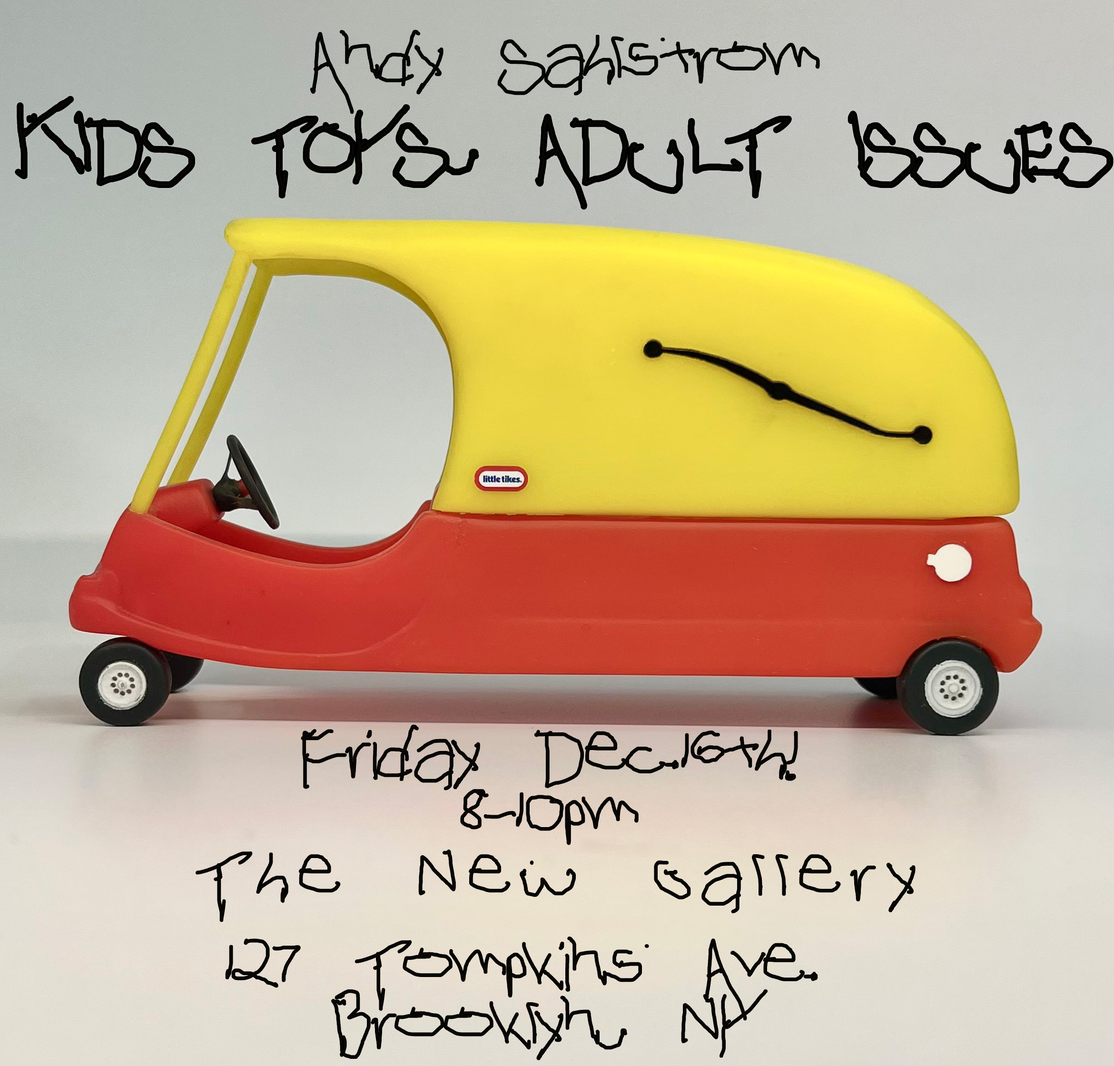
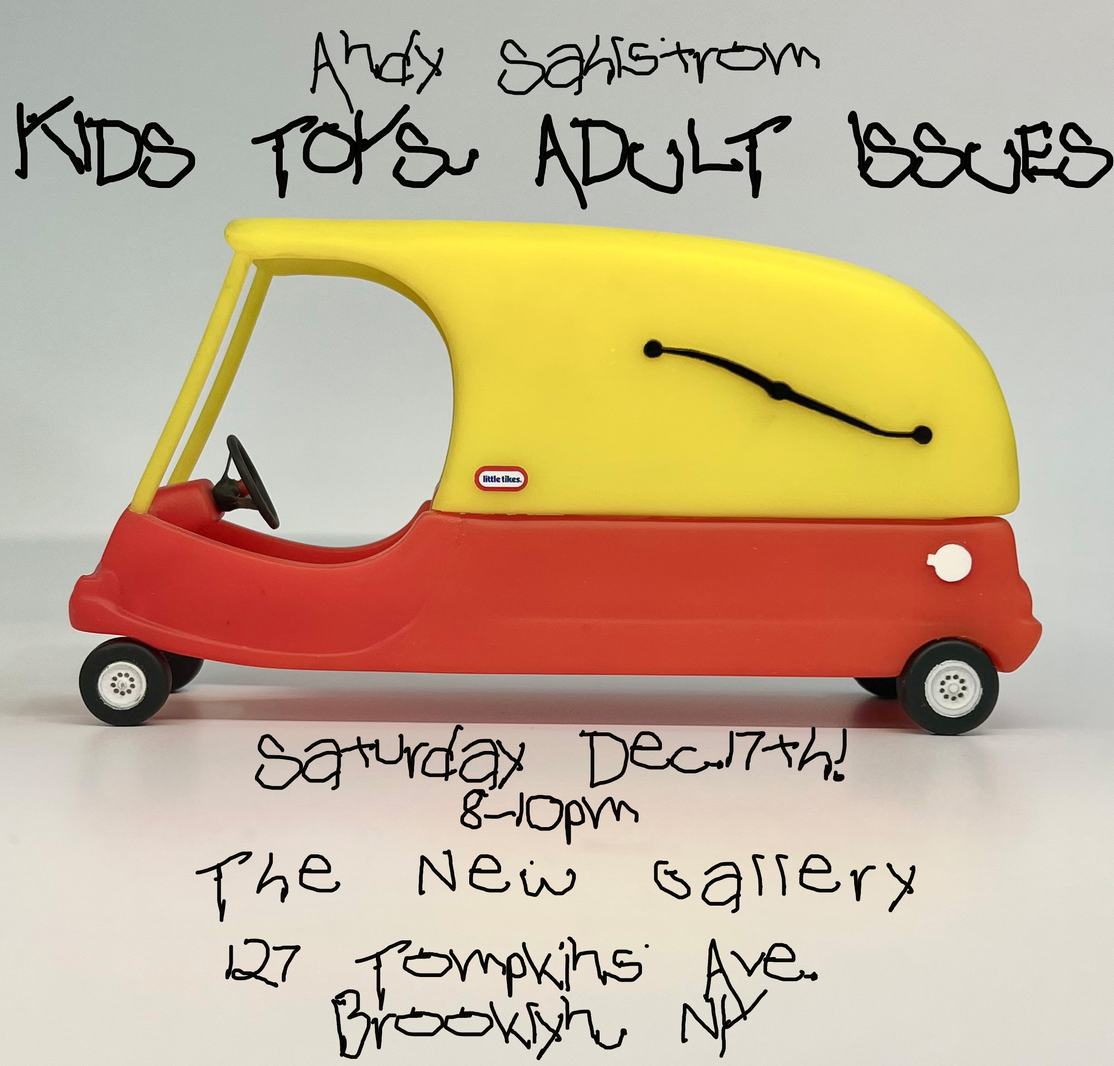
✨ added one more toy, changed date, and added gsap

Changed region(s): [[0.2183, 0.6875, 0.7796, 0.75]]

diff --git a/styles/home.module.css b/styles/home.module.css
@@ -15,35 +15,10 @@
 }
 
 .ad_container {
-  width: min(80vw, 30rem);
-  object-fit: cover;
+  grid-column: 1;
   position: relative;
-  border: max(0.6rem, 0.8vw) solid var(--media-border-color);
-  border-radius: 10px;
-  box-shadow: 0 0 30px var(--media-border-color);
-  position: absolute;
+  grid-row: 1;
   z-index: 10;
-  animation: bouncein 0.8s cubic-bezier(0.175, 0.885, 0.32, 1.275) 0.5s 1;
-}
-
-@keyframes bouncein {
-  from {
-    opacity: 0;
-    transform: translateY(1000px);
-  }
-
-  65% {
-    transform: translateY(50px);
-  }
-
-  80% {
-    transform: translateY(-50px);
-  }
-
-  to {
-    transform: translateY(0px);
-    opacity: 1;
-  }
 }
 
 .ad_container_closed {
@@ -54,9 +29,9 @@
   position: absolute;
   width: 40px;
   height: 40px;
-  position: inherit;
-  top: -20px;
-  right: -20px;
+  position: absolute;
+  top: -10px;
+  right: -10px;
   background-color: var(--brown-10);
   border: 4px solid var(--border-color);
   border-radius: 50px;
@@ -65,6 +40,11 @@
 
 .ad_image_container {
   cursor: pointer;
+  width: min(80vw, 30rem);
+  border: max(0.6rem, 0.8vw) solid var(--media-border-color);
+  border-radius: 10px;
+  margin: 0 auto;
+  box-shadow: 0 0 30px var(--media-border-color);
 }
 
 .close_box_svg {

diff --git a/pages/index.js b/pages/index.js
@@ -3,10 +3,23 @@ import Nav from '../components/nav';
 import styles from '../styles/home.module.css';
 import Image from 'next/image';
 import Link from 'next/link';
-import { useState } from 'react';
+import { useState, useLayoutEffect } from 'react';
+import { useRef } from 'react';
+import { gsap } from 'gsap';
 
 export default function Home() {
   const [adClose, setAdClose] = useState(true);
+  const adRef = useRef();
+
+  useLayoutEffect(() => {
+    console.log(adRef);
+    gsap.from(adRef.current, {
+      y: '-1000px',
+      duration: 2,
+      ease: 'elastic.inOut',
+      delay: 2,
+    });
+  }, []);
 
   return (
     <Layout>
@@ -14,6 +27,7 @@ export default function Home() {
 
       <main className={styles.main_container}>
         <div
+          ref={adRef}
           className={adClose ? styles.ad_container : styles.ad_container_closed}
         >
           <Link href="/design/kids-toys-adult-issues">
@@ -24,6 +38,7 @@ export default function Home() {
                 height={2240}
                 objectFit="cover"
                 layout="responsive"
+                priority={true}
               />
             </div>
           </Link>
